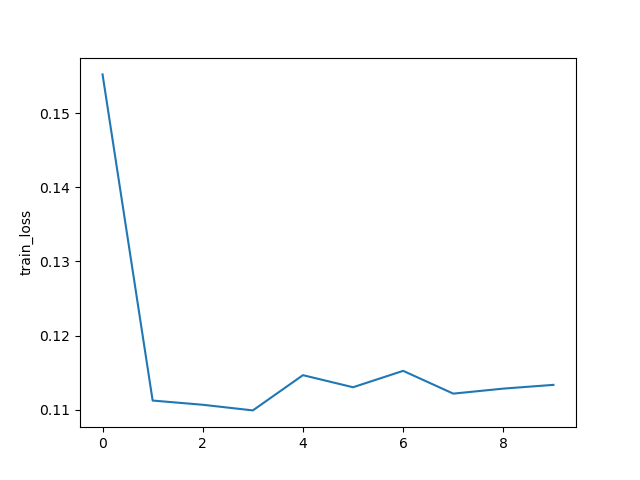
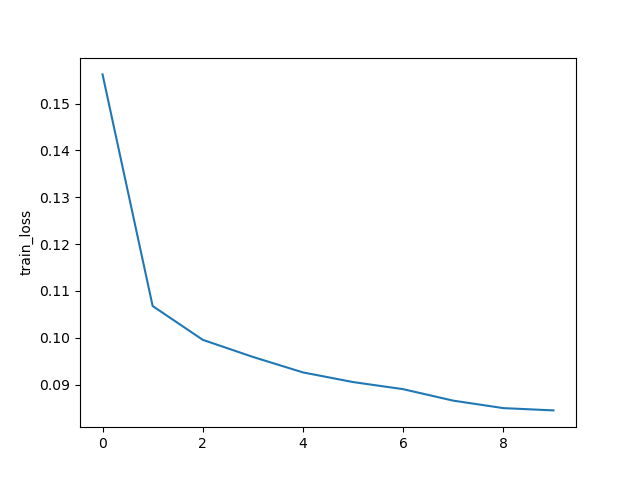
up

diff --git a/Server.py b/Server.py
@@ -16,6 +16,7 @@ from Client import Client
 from Aggregation.FedAVG import FedAvg
 from Aggregation.FedGA import FedGA
 from Aggregation.FedPer import FedPer
+from Aggregation.FedMA import FedMA
 from utils.Split import DatasetSplit
 
 
@@ -31,7 +32,7 @@ if __name__ == '__main__':
     test_subset, val_subset = torch.utils.data.random_split(dataset_test, [8000, 2000], generator=torch.Generator().manual_seed(1))
     #dataset_train= DataLoader(dataset= dataset_train, shuffle=True)
     #dataset_test = DataLoader(dataset=test_subset, shuffle=True)
-    dataset_validate = DataLoader(dataset=val_subset, shuffle=True,batch_size=args.local_bs)
+    dataset_validate = DataLoader(dataset=val_subset, shuffle=True,batch_size=60)
     print(len(dataset_validate))
 
 
@@ -52,12 +53,7 @@ if __name__ == '__main__':
         train_dataset_client=DatasetSplit( dataset_train,  idxs=dataset_train_index_client)
         test_dataset_client=DatasetSplit( dataset_test, idxs= dataset_test_index_client)
         
-        #
         # train_dataset_client=DataLoader(dataset=DatasetSplit( dataset_train,  idxs=dataset_train_index_client),shuffle=True,batch_size=args.local_bs) #,batch_size=args.local_bs
-   
-     
-
-
         client=Client(i,net_glob, train_dataset_client,test_dataset_client,args)  
         dict_users[i] = client 
       
@@ -85,19 +81,22 @@ if __name__ == '__main__':
        print("Aggregation over all clients")
        w_locals = [w_glob for i in range(args.num_users)]
 
-
-    for iter in range(args.epochs): 
+    if (args.aggr=='fedMA'):
+           clients=FedMA(dict_users)
+    else :         
+     for iter in range(args.epochs): 
         i=0 
         print('iteration',iter) 
         loss_locals = []
         if not args.all_clients:
             w_locals = []
        
-        if (args.aggr=='fedMA'):
-            for id in ids_users: #idx of a user
-         
-
-        elif  (args.aggr=='fedPer'):
+       
+        '''
+        For Local updates
+        
+        '''
+        if  (args.aggr=='fedPer'):
               for id in ids_users: #idx of a user
                 
                    w, loss = dict_users[id].local_updatePer(w_glob)
@@ -112,24 +111,32 @@ if __name__ == '__main__':
                   
         else :    
             for id in ids_users: #idx of a user
-
+              print(id)
               w, loss = dict_users[id].local_update(w_glob)
-
               if args.all_clients:
                 w_locals[id] = copy.deepcopy(w)
               else:
                 w_locals.append(copy.deepcopy(w))
               loss_locals.append(copy.deepcopy(loss))
-
             loss_avg = sum(loss_locals) / len(loss_locals)
+            print(loss_avg)
 
 
         print('Round {:3d}, Average loss {:.3f}'.format(iter, loss_avg))
         loss_train.append(loss_avg)
         w_locals= np.array(w_locals)
+
+
+
+        '''
+        For aggregation
+        
+        '''
+
         if (args.aggr=='fedAVG'):
             # update global weights
             w_glob = FedAvg(w_locals)
+
         elif (args.aggr=='fedGA'):
              initial_population=w_locals
        
@@ -142,11 +149,11 @@ if __name__ == '__main__':
                          weight= np.concatenate((weight, array), axis=0)
                          initial_population[i]= np.array(weight,dtype='f')
                 i=i+1 # next weight vector (user)
-       
              w_glob = FedGA(initial_population,net_glob,dataset_validate)
+
+
         elif (args.aggr=='fedPer'):
-           
-           w_glob = FedPer(w_locals)
+            w_glob = FedPer(w_locals)
 
         net_glob.load_state_dict(w_glob)
 
@@ -154,7 +161,7 @@ if __name__ == '__main__':
         
 
     # plot loss curve
-    for id in ids_users: #idx of a user
+     for id in ids_users: #idx of a user
             w, loss =  dict_users[id].local_update(w_glob)
 
             if args.all_clients:

diff --git a/utils/Options.py b/utils/Options.py
@@ -8,7 +8,7 @@ def args_parser():
     parser = argparse.ArgumentParser()
     # federated arguments
     parser.add_argument('--epochs', type=int, default=10, help="rounds of training") # epochs number is the same as number of layers in FedMA
-    parser.add_argument('--num_users', type=int, default=5, help="number of users: K")
+    parser.add_argument('--num_users', type=int, default=10, help="number of users: K")
     parser.add_argument('--frac', type=float, default=0.1, help="the fraction of clients: C")
     parser.add_argument('--local_ep', type=int, default=20, help="the number of local epochs: E")
     

diff --git a/Client.py b/Client.py
@@ -23,11 +23,13 @@ class Client(object):
     
      
      def local_update(self,w):
-
+      
          loss_func = nn.CrossEntropyLoss()
        
          self.data = DataLoader(self.datasetTrain, shuffle=True,batch_size=self.args.local_bs)
-         self.model.load_state_dict(w)
+      
+         self.w=w
+         self.model.load_state_dict(self.w)
          self.model.train()
          optimizer = torch.optim.SGD(self.model.parameters(), lr=self.args.lr, momentum=self.args.momentum)
          epoch_loss = []

diff --git a/Aggregation/FedGA.py b/Aggregation/FedGA.py
@@ -11,8 +11,10 @@ import pygad.torchga as tg
 loss_function = nn.CrossEntropyLoss()
 
 def fitness(solution, sol_idx):
+
    
         loss=0.0
+      
       
         model_weights_dict = tg.model_weights_as_dict(model=model, weights_vector=solution)
         model.load_state_dict(model_weights_dict)
@@ -25,7 +27,7 @@ def fitness(solution, sol_idx):
           
         loss /= len(dataset.dataset)
 
-        loss=  1.0 / (loss) #.item()
+        loss=  1.0 / (loss.item()) #
         
     
         return loss

diff --git a/Aggregation/FedMA.py b/Aggregation/FedMA.py
@@ -4,7 +4,7 @@ import torch
 from torch import nn
 
 
-def FedMA(w,numLayer):
+def FedMA(clients):
   
 
     w_base = copy.deepcopy(w[0])
